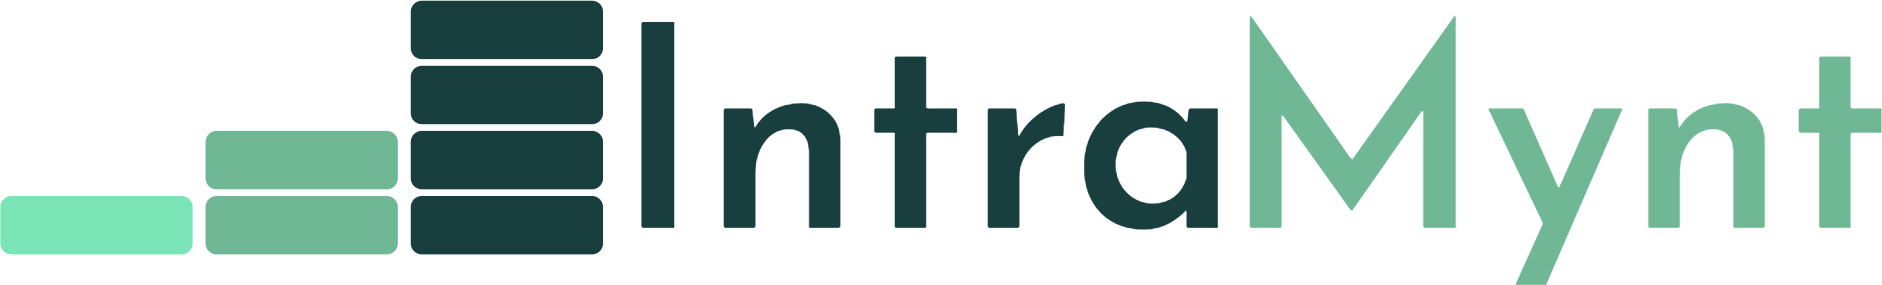
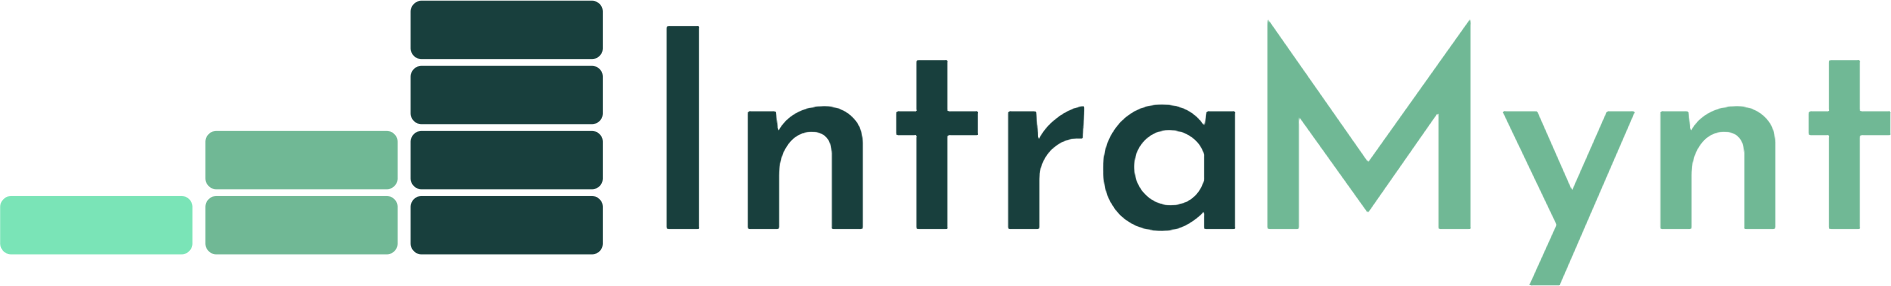
Refine IntraMynt nav branding

diff --git a/src/components/ui/app-brand.tsx b/src/components/ui/app-brand.tsx
@@ -18,7 +18,7 @@ export function AppBrand({
   const lockupClassName =
     size === "large"
       ? "h-12 max-w-64 sm:h-14"
-      : "h-9 max-w-44";
+      : "h-9 max-w-[10.5rem]";
 
   if (showNameOnMobile && appConfig.lockupUrl) {
     return (
